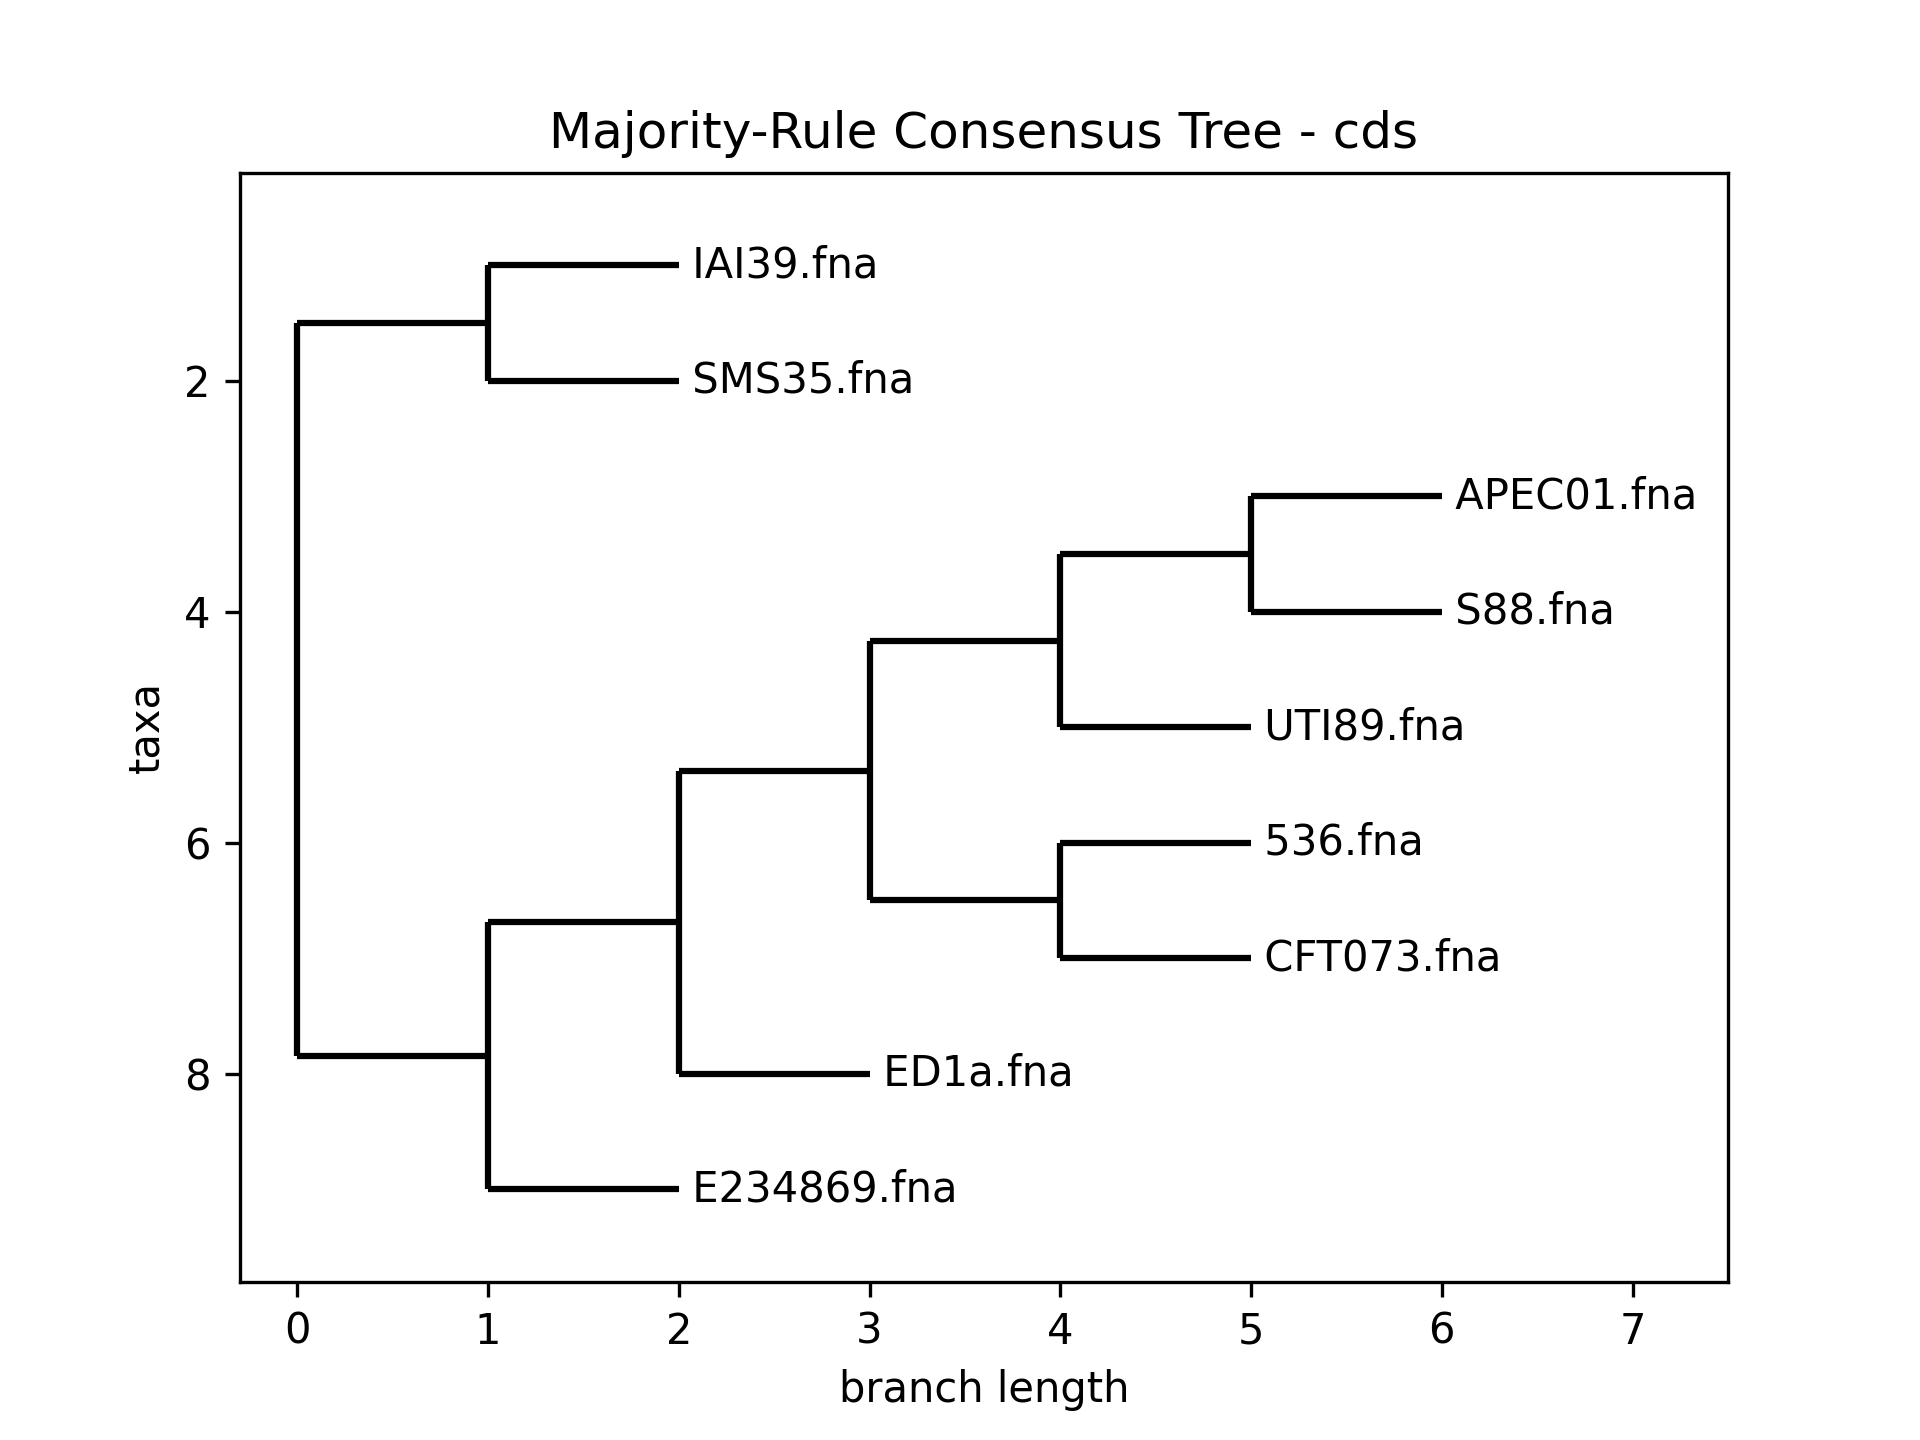
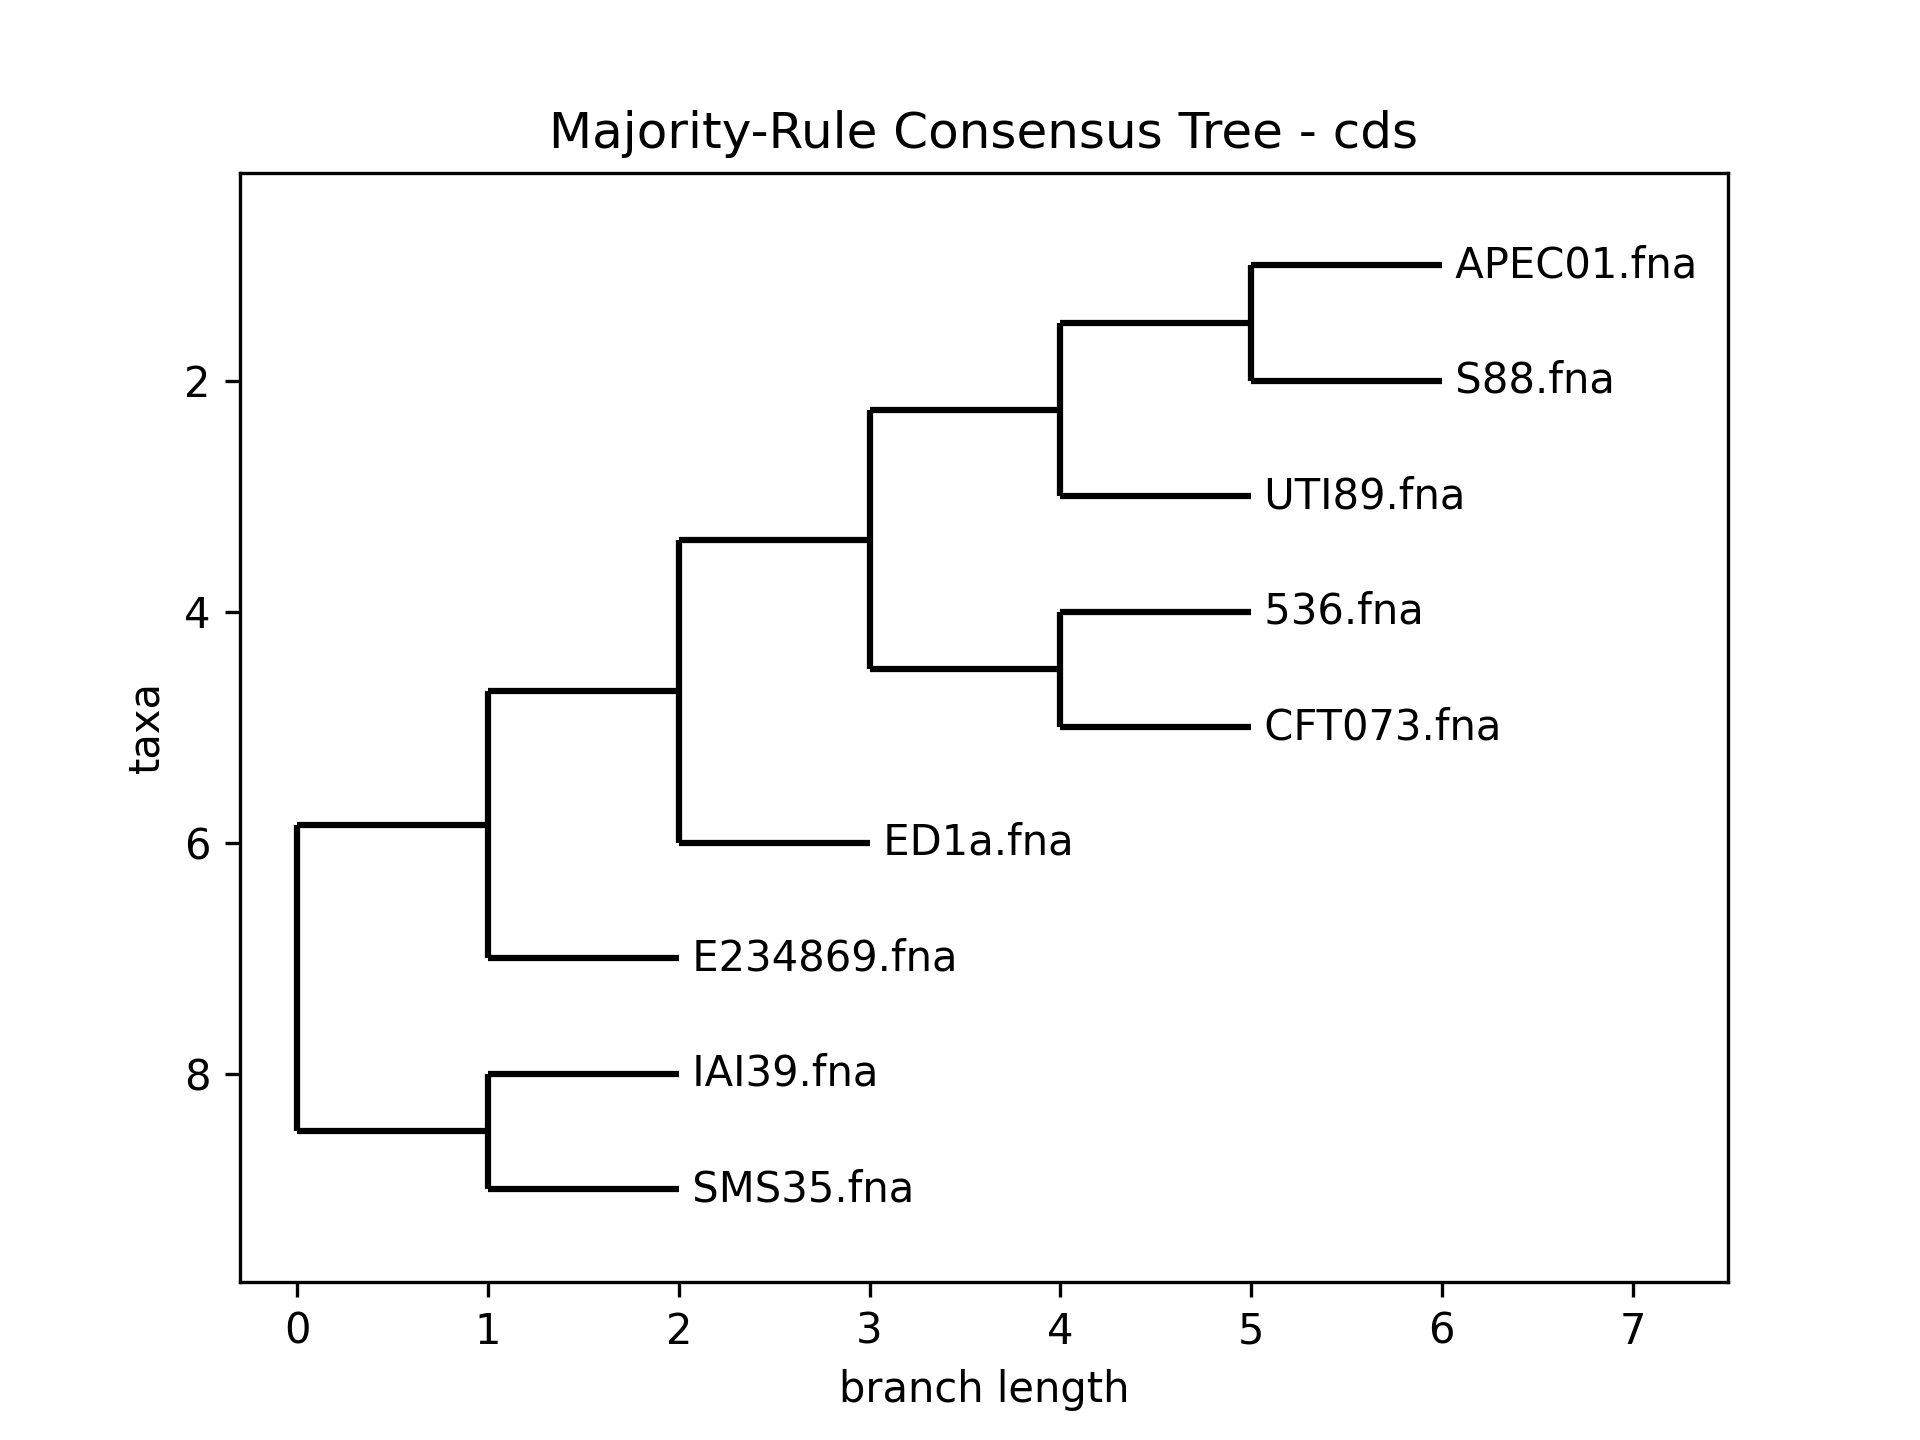
update consensus

diff --git a/tree_building/consensus.py b/tree_building/consensus.py
@@ -9,7 +9,7 @@ from Bio.Phylo.Newick import Tree, Clade
 from collections import Counter
 import glob
 from NN import NN
-from tree_building.UPGMA import UPGMA
+from UPGMA import UPGMA
 import logging
 from HRA import HRA
 from HRC import HRC
@@ -167,9 +167,7 @@ def main():
         return
     logging.info(f"Starting phylogenetic analysis in folder: {generalFolder}")
     NN(generalFolder)
-    UMPGA(generalFolder)
-    minEvolution(generalFolder)
-    FM(generalFolder)
+    UPGMA(generalFolder)
     HRC(generalFolder)
     HRA(generalFolder)
     buildConsensus(generalFolder)
